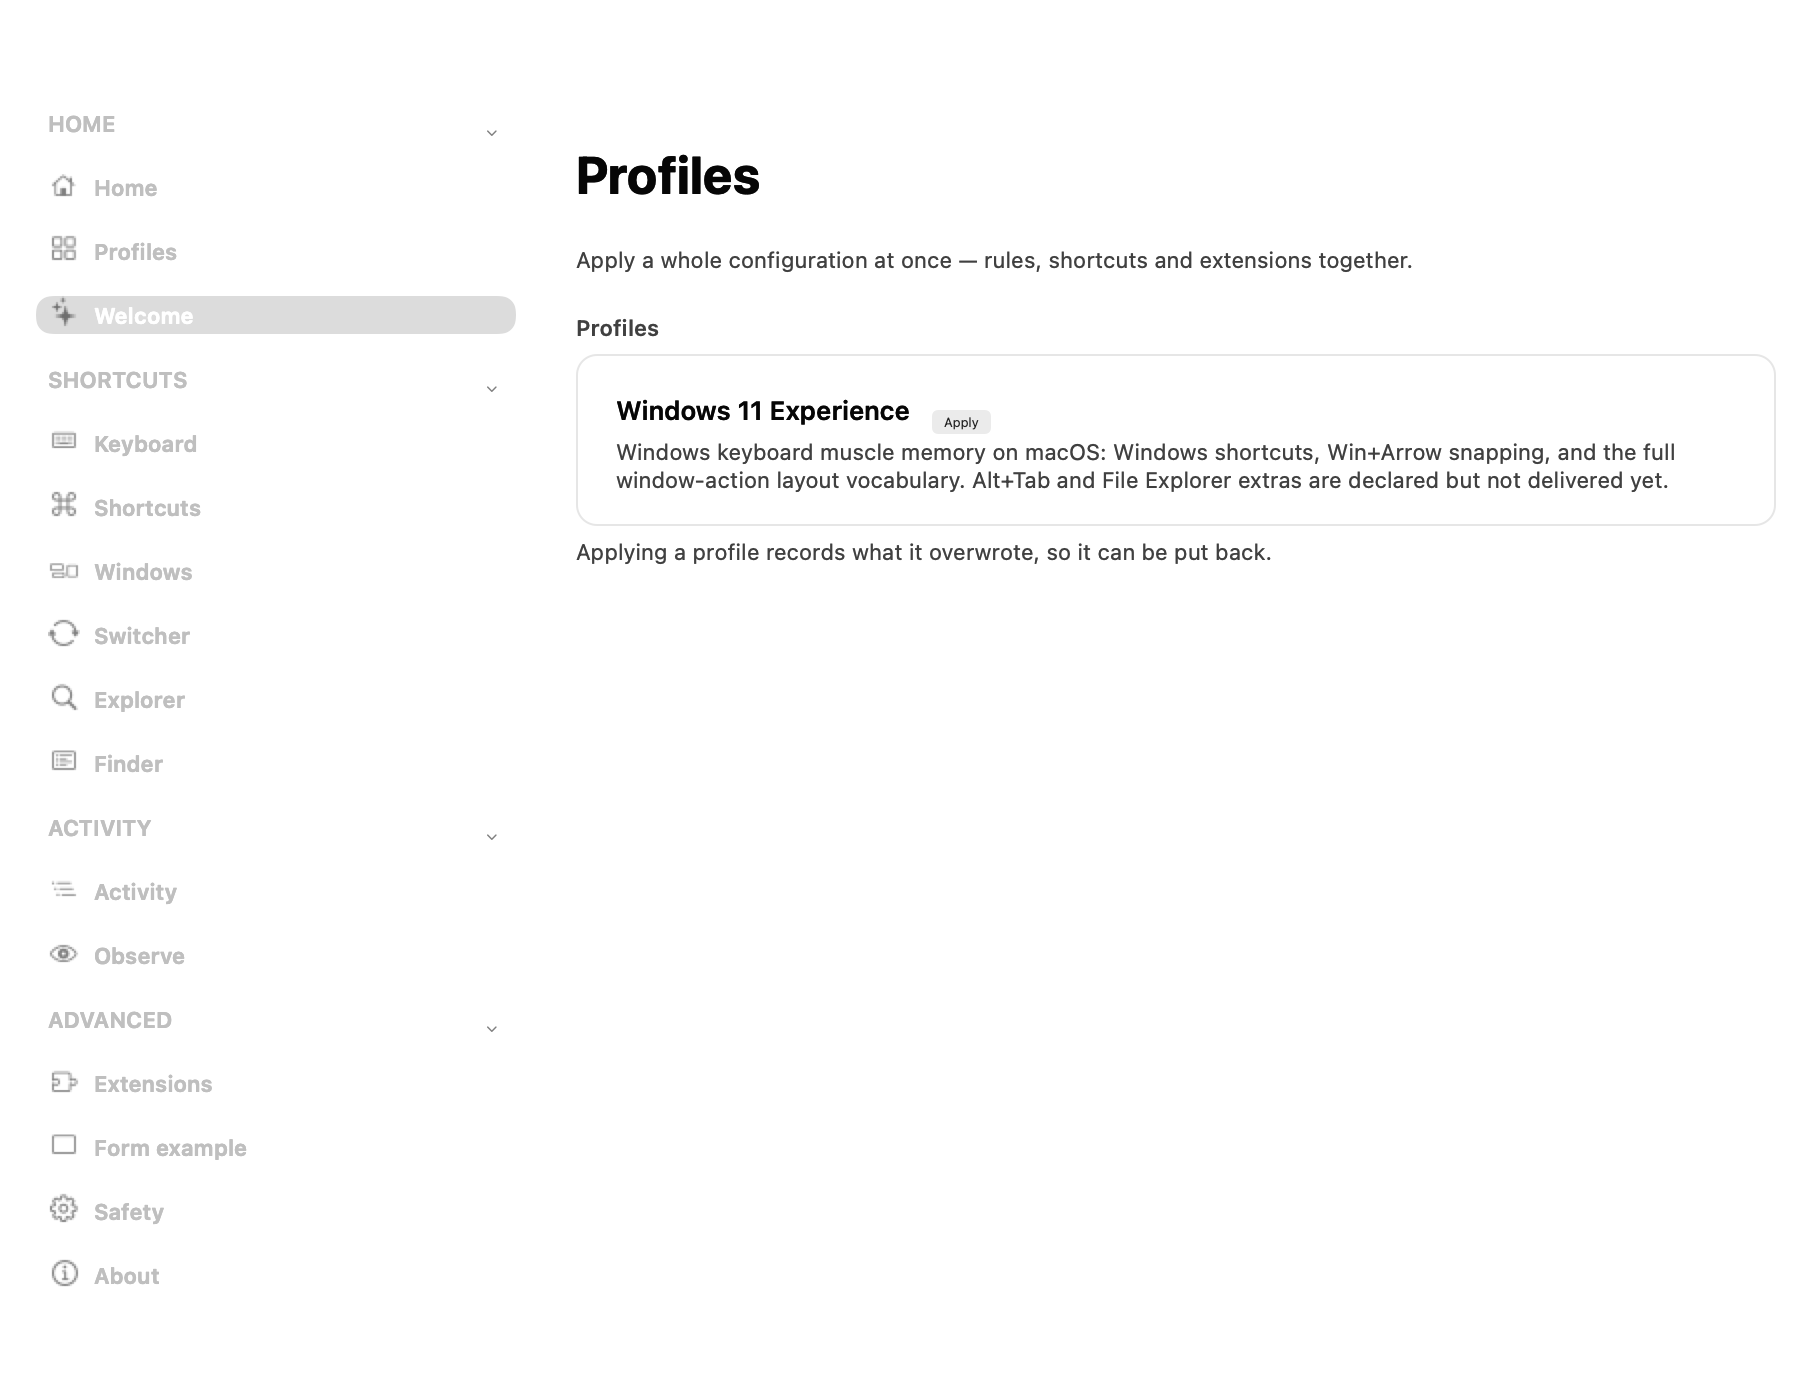
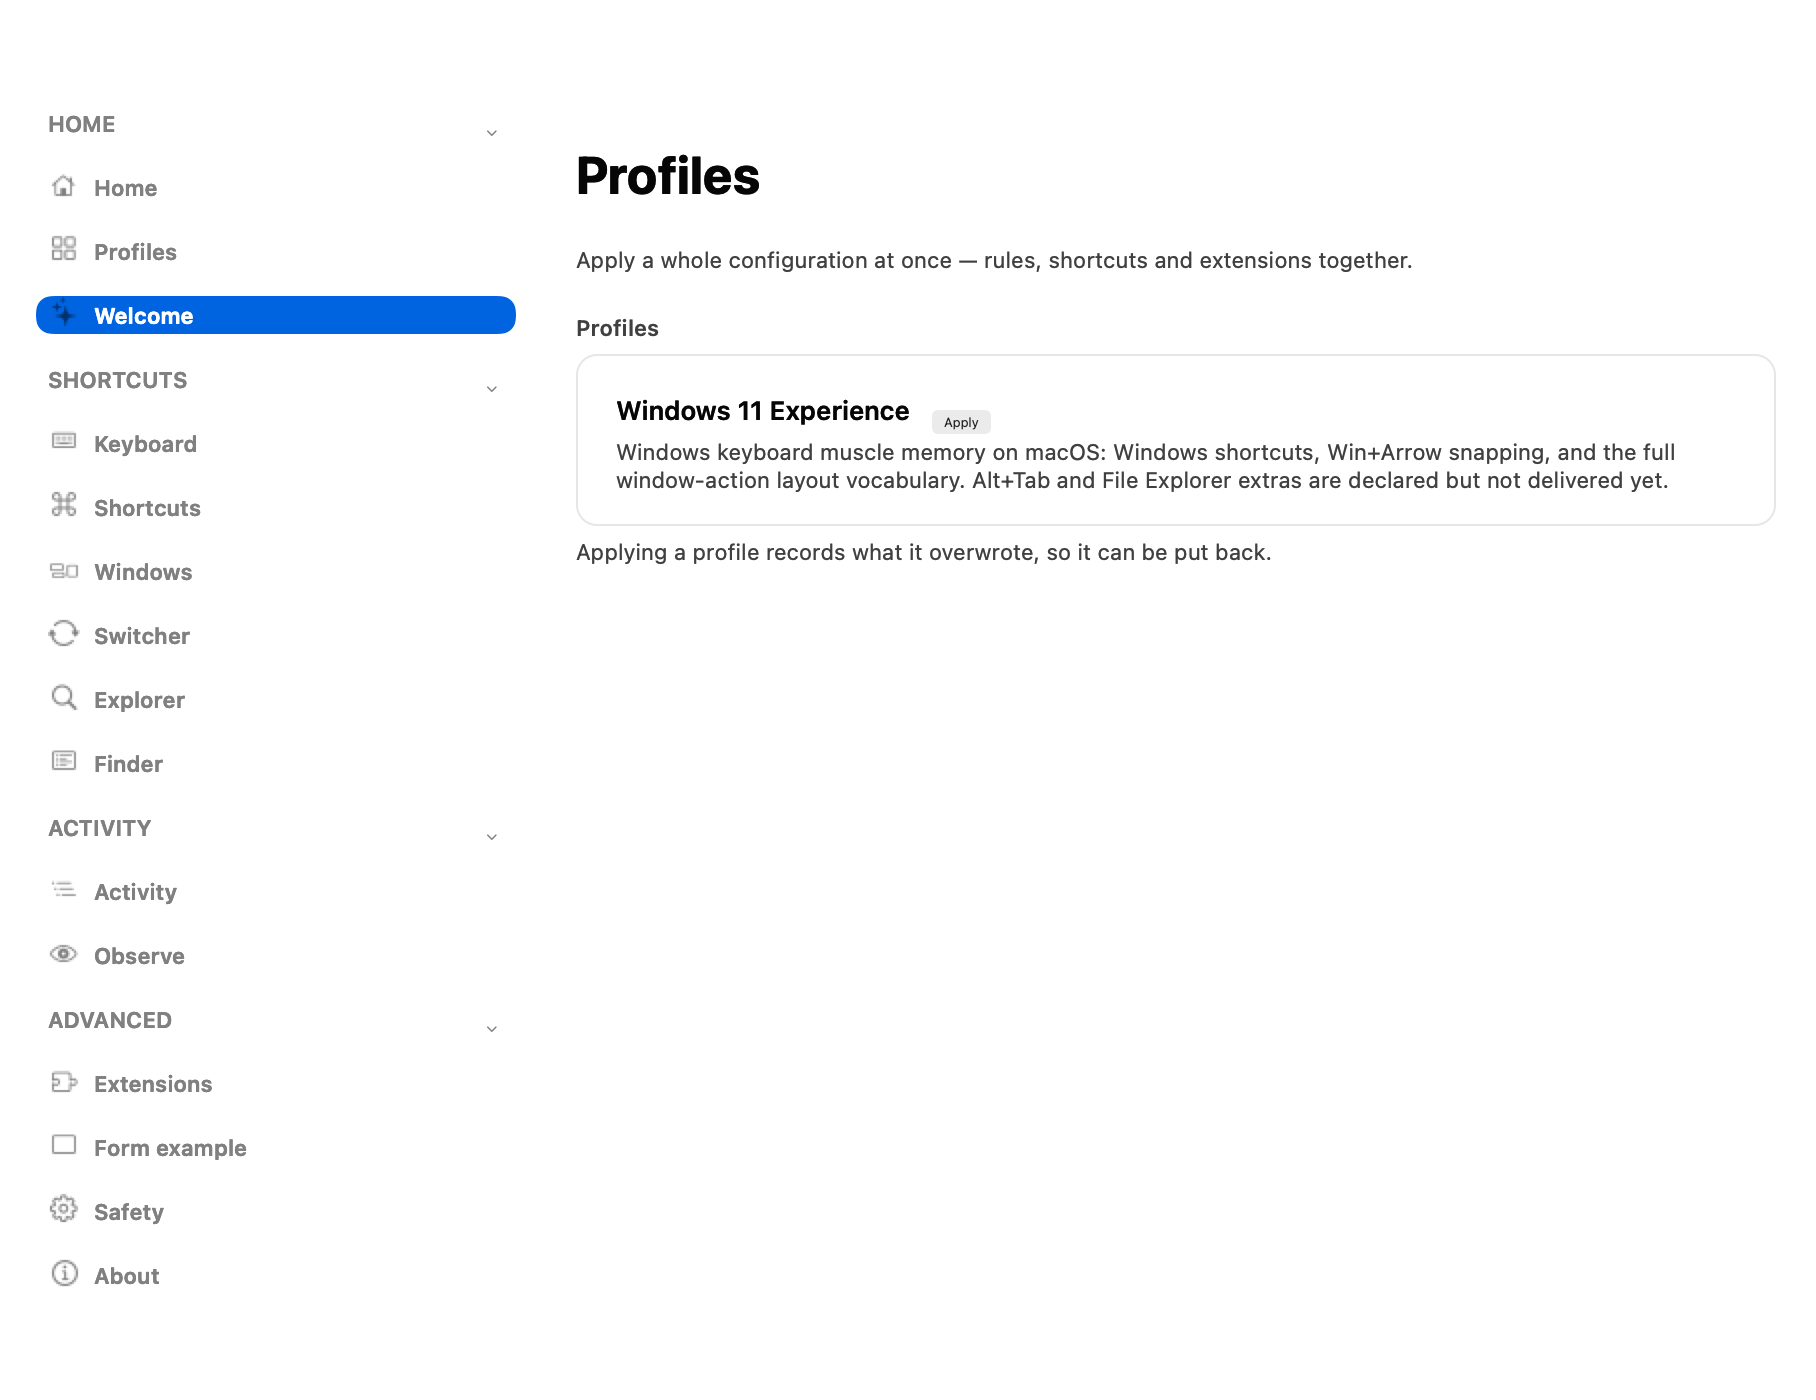
fix: the window changed width when you navigated to Safety
Fourteen pages rendered 908pt wide and `core.safety` rendered 926pt, so
moving between pages visibly resized the window sideways. A long button
label widened the frame: `fitWindowToContent` took the width from the
content it was about to show, so content that did not fit could widen the
window that was supposed to be sized for it.

The width now comes from the window's own frame and only the height follows
the content. Measured after: all fifteen pages 908x700pt.

Also recorded, because it cost an hour and would cost the next person the
same: **two consecutive renders of the same build are byte-identical**, so
these files are reproducible evidence. The one thing that is NOT stable is
the sidebar's selected-row colour, which is grey when the window does not
hold key and the user's accent when it does — and a CLI-invoked accessory
process does not reliably hold key.

diff --git a/macos/Sources/CrossOSApp/Shell.swift b/macos/Sources/CrossOSApp/Shell.swift
@@ -240,7 +240,14 @@ public final class ShellWindowController: NSWindowController, NSToolbarDelegate 
         // Keep the window's own position and only change its size — a settings
         // window that jumps up and down the screen as the reader navigates is
         // worse than the void it was fixing.
-        frame.size = target.size
+        //
+        // The WIDTH is taken from the window's current frame rather than from
+        // `content`, because content can widen it: measured, fourteen pages
+        // rendered 908pt wide and `core.safety` rendered 926pt, so navigating
+        // to Safety and back visibly resized the window sideways. A long button
+        // label is what did it — nothing in a settings pane should be able to
+        // change how wide the window is.
+        frame.size = NSSize(width: window.frame.width, height: target.size.height)
         window.setFrame(frame, display: true)
     }
 

diff --git a/docs/screenshots/README.md b/docs/screenshots/README.md
@@ -42,6 +42,14 @@ statement about it in a commit message was made about a picture it was not
 in. **A person looking at the real window is the only way to check it** —
 `./scripts/run.sh`.
 
+## Width varies with the page, and is pinned
+
+Two consecutive renders of the same build are byte-identical, so the pictures
+are reproducible. They were not always: navigating to `core.safety` used to
+make the window **18pt wider** — a long button label widening the frame — and
+back again on the way out. The width now comes from the window's own frame
+rather than from its content, so all fifteen pages render 908pt wide.
+
 ## Reading them
 
 The window is sized to its content down to a floor set by the navigation rail,
